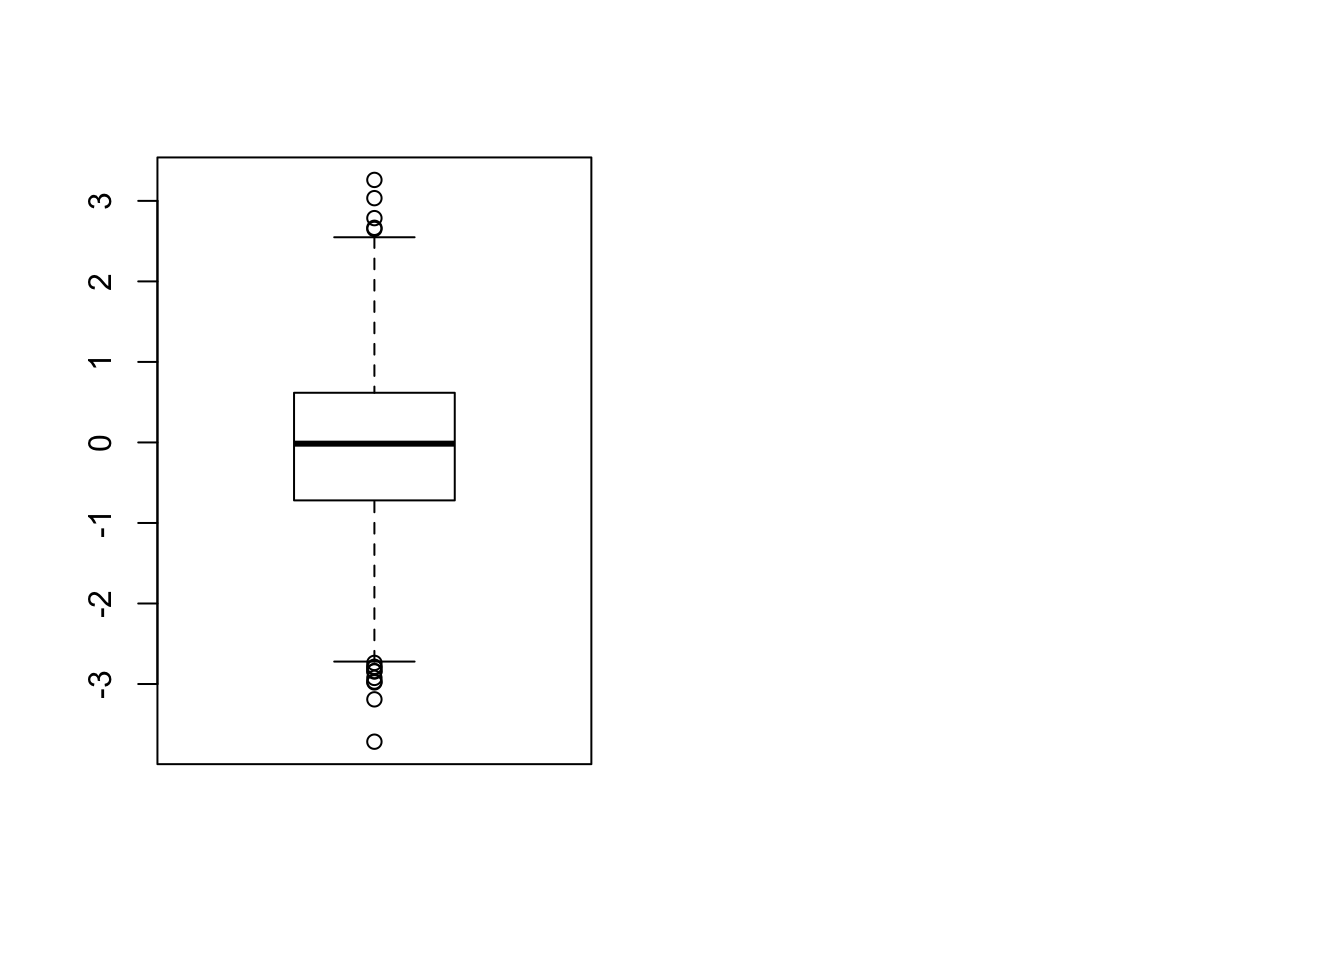
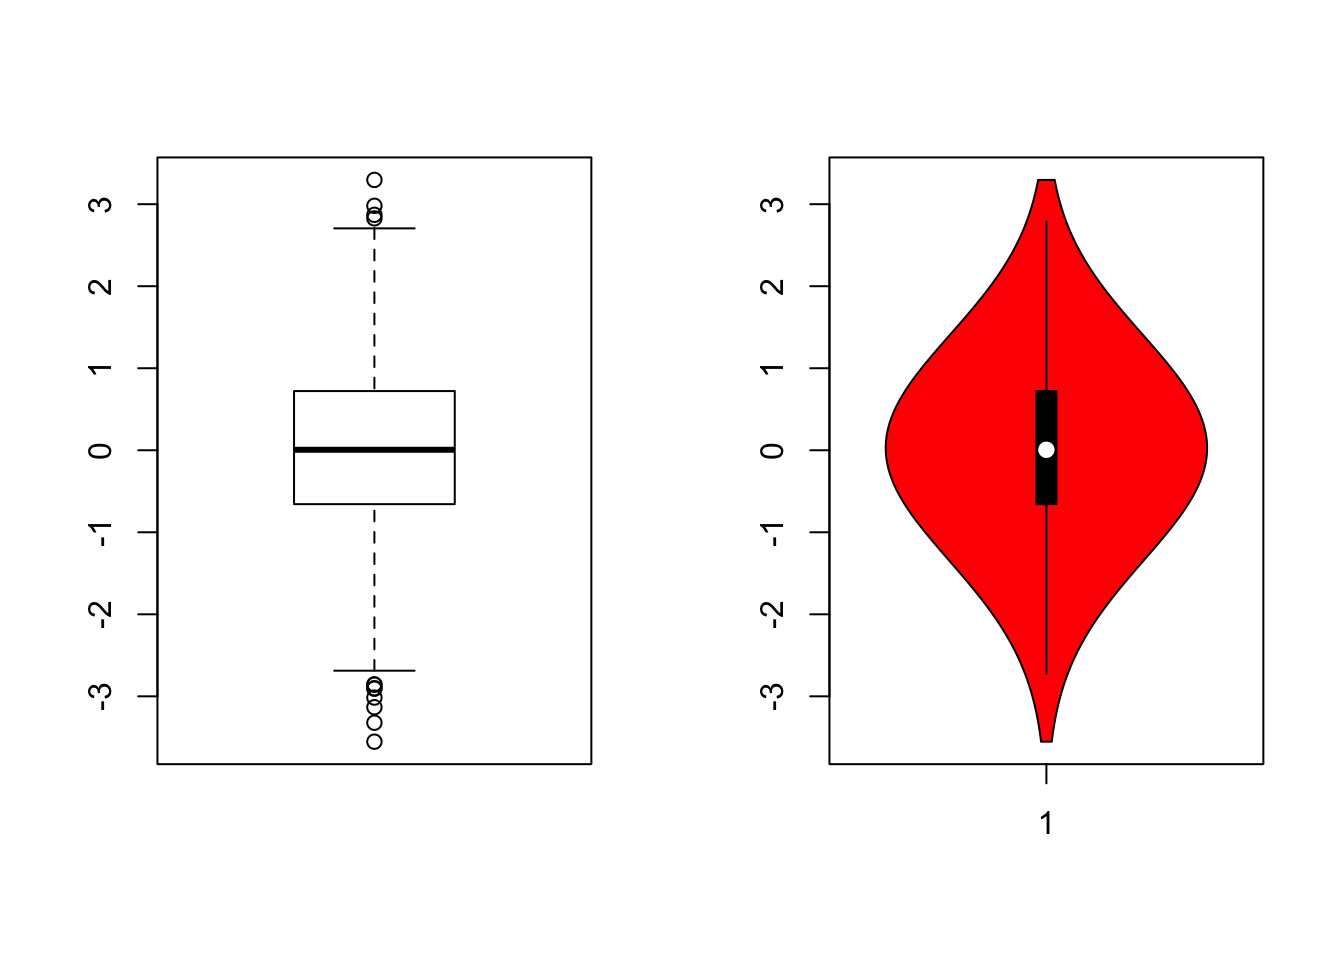
install package

diff --git a/content/post/2011-04-25-violin-plot-in-R.html b/content/post/2011-04-25-violin-plot-in-R.html
@@ -20,17 +20,16 @@ draft: false
 <pre class="r"><code>&gt; install.packages(&quot;vioplot&quot;)</code></pre>
 <p>여기서는 표준정규분포의 boxplot과 violin plot을, 그리고 자유도 1인 카이제곱분포의 두 plot을 비교해 보도록 하겠습니다.</p>
 <pre class="r"><code>&gt; library(vioplot)</code></pre>
-<pre><code>#&gt; Error in library(vioplot): there is no package called &#39;vioplot&#39;</code></pre>
+<pre><code>#&gt; Loading required package: sm</code></pre>
+<pre><code>#&gt; Package &#39;sm&#39;, version 2.2-5.5: type help(sm) for summary information</code></pre>
 <pre class="r"><code>&gt; par(mfrow=c(1, 2))
 &gt; x1 &lt;- rnorm(2000, 0,1)
 &gt; boxplot(x1)
 &gt; vioplot(x1, col=&quot;red&quot;)</code></pre>
-<pre><code>#&gt; Error in vioplot(x1, col = &quot;red&quot;): could not find function &quot;vioplot&quot;</code></pre>
 <p><img src="/post/2011-04-25-violin-plot-in-R_files/figure-html/unnamed-chunk-3-1.png" width="672" /></p>
 <pre class="r"><code>&gt; par(mfrow = c(1, 2))
 &gt; x2 &lt;- rchisq(2000, df=1)
 &gt; boxplot(x2)
 &gt; vioplot(x2, col = &quot;red&quot;)</code></pre>
-<pre><code>#&gt; Error in vioplot(x2, col = &quot;red&quot;): could not find function &quot;vioplot&quot;</code></pre>
 <p><img src="/post/2011-04-25-violin-plot-in-R_files/figure-html/unnamed-chunk-4-1.png" width="672" /></p>
 <p>저는 구관이 명관이라고 boxplot을 더 선호하긴 합니다만, 분포를 한 눈에 파악할 수 있다는 점에서 violin plot도 괜찮은 선택이라고 생각합니다.</p>
